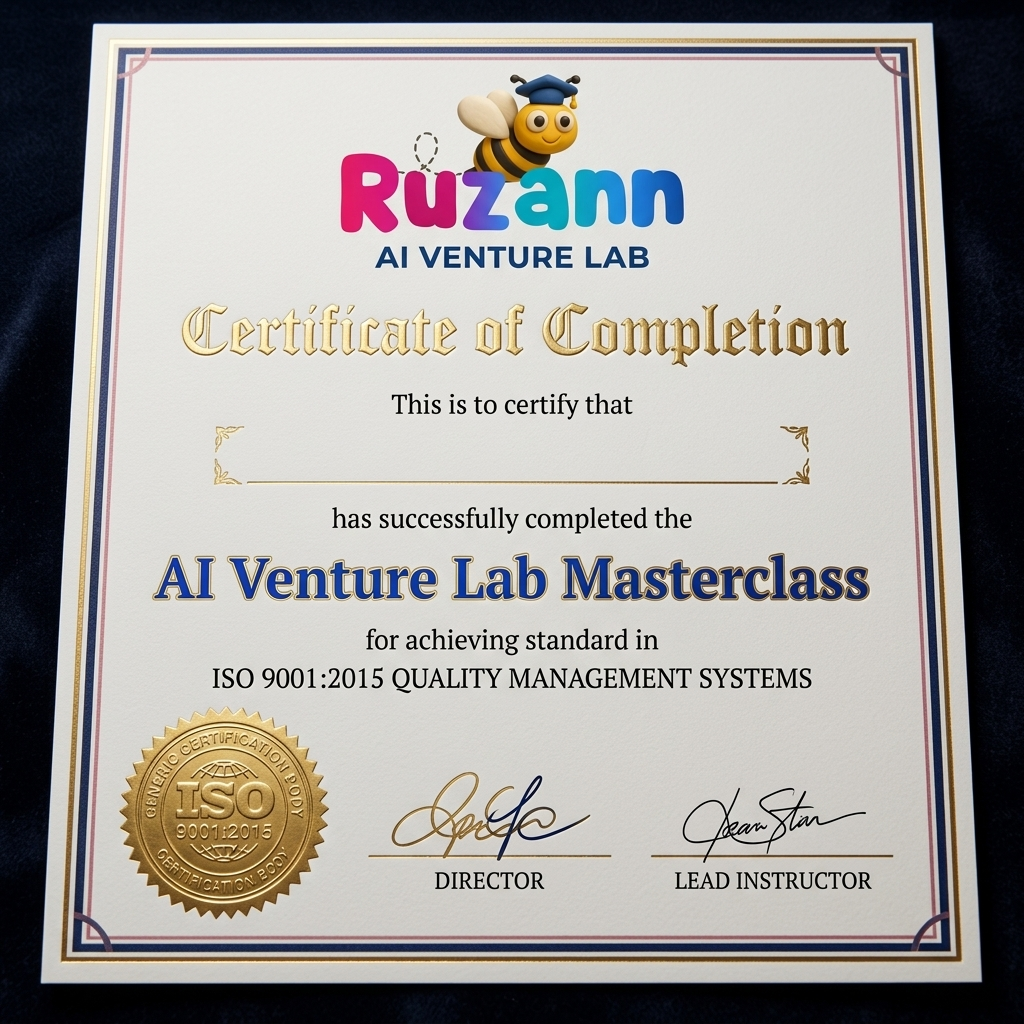
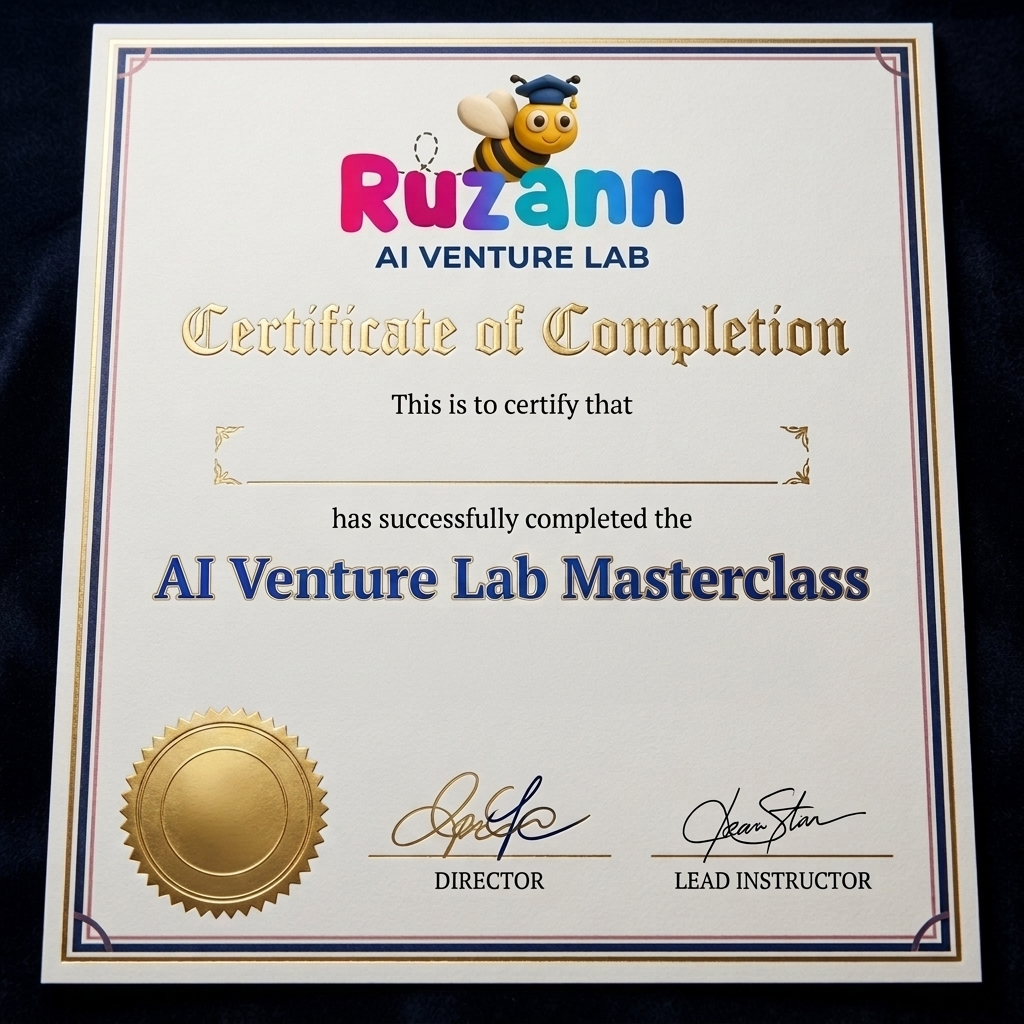
changes done

diff --git a/src/app/aiventurelab/page.tsx b/src/app/aiventurelab/page.tsx
@@ -257,7 +257,7 @@ export default function AIVentureLabPage() {
             <div className="lg:col-span-7 space-y-4 md:space-y-6">
               <div className="bg-slate-800/80 border border-slate-700/60 rounded-2xl md:rounded-3xl p-4 md:p-8 backdrop-blur-xl shadow-xl space-y-3 md:space-y-4">
                 <h3 className="text-sm md:text-lg font-black text-rose-400 flex items-center gap-2">
-                  <Zap size={18} className="text-amber-400" /> What You Will Achieve in 3 Hours:
+                  <Zap size={18} className="text-amber-400" /> What You Will Achieve:
                 </h3>
                 <ul className="space-y-2 md:space-y-3 text-xs md:text-base text-slate-200">
                   <li className="flex items-start gap-2 md:gap-3">
@@ -300,7 +300,7 @@ export default function AIVentureLabPage() {
               <div className="grid grid-cols-2 sm:grid-cols-4 gap-2 md:gap-3">
                 <div className="bg-slate-800/40 border border-slate-700/40 rounded-xl p-2.5 text-center">
                   <BadgeCheck size={18} className="text-rose-400 mx-auto mb-0.5" />
-                  <span className="text-[11px] md:text-xs font-bold text-slate-300 block">ISO Certified</span>
+                  <span className="text-[11px] md:text-xs font-bold text-slate-300 block">Official Certificate</span>
                   <span className="text-[9px] md:text-[10px] text-slate-400">Quality Training</span>
                 </div>
                 <div className="bg-slate-800/40 border border-slate-700/40 rounded-xl p-2.5 text-center">
@@ -310,8 +310,8 @@ export default function AIVentureLabPage() {
                 </div>
                 <div className="bg-slate-800/40 border border-slate-700/40 rounded-xl p-2.5 text-center">
                   <Lock size={18} className="text-emerald-400 mx-auto mb-0.5" />
-                  <span className="text-[11px] md:text-xs font-bold text-slate-300 block">100% Guaranteed</span>
-                  <span className="text-[9px] md:text-[10px] text-slate-400">Money Back Protection</span>
+                  <span className="text-[11px] md:text-xs font-bold text-slate-300 block">Instant Access</span>
+                  <span className="text-[9px] md:text-[10px] text-slate-400">Secure Enrollment</span>
                 </div>
                 <div className="bg-slate-800/40 border border-slate-700/40 rounded-xl p-2.5 text-center">
                   <Award size={18} className="text-amber-400 mx-auto mb-0.5" />
@@ -333,7 +333,7 @@ export default function AIVentureLabPage() {
                     <Video size={24} />
                   </div>
                   <h3 className="text-base md:text-xl font-black text-white">AI Venture Lab Masterclass</h3>
-                  <p className="text-[11px] md:text-xs text-rose-300 font-semibold mt-0.5">3-Hour Interactive Live Session</p>
+                  <p className="text-[11px] md:text-xs text-rose-300 font-semibold mt-0.5">Interactive Live Session</p>
                 </div>
 
                 {/* Event Key Info */}
@@ -343,16 +343,12 @@ export default function AIVentureLabPage() {
                     <span className="font-bold text-white">Upcoming Saturday</span>
                   </div>
                   <div className="flex items-center justify-between py-1 border-b border-slate-800/80">
-                    <span className="text-slate-400 flex items-center gap-1.5"><Clock size={14} className="text-rose-400" /> Time:</span>
-                    <span className="font-bold text-white">11:00 AM - 2:00 PM IST</span>
-                  </div>
-                  <div className="flex items-center justify-between py-1 border-b border-slate-800/80">
                     <span className="text-slate-400 flex items-center gap-1.5"><Globe size={14} className="text-rose-400" /> Mode:</span>
-                    <span className="font-bold text-emerald-400 flex items-center gap-1"><span className="w-1.5 h-1.5 rounded-full bg-emerald-400 animate-ping inline-block" /> Zoom Live</span>
+                    <span className="font-bold text-emerald-400 flex items-center gap-1"><span className="w-1.5 h-1.5 rounded-full bg-emerald-400 animate-ping inline-block" /> Google Meet Live</span>
                   </div>
                   <div className="flex items-center justify-between py-1">
-                    <span className="text-slate-400 flex items-center gap-1.5"><Gift size={14} className="text-rose-400" /> Bonuses:</span>
-                    <span className="font-bold text-amber-300">{formatPrice(25000)}+ Free</span>
+                    <span className="text-slate-400 flex items-center gap-1.5"><Gift size={14} className="text-rose-400" /> WhatsApp API:</span>
+                    <span className="font-bold text-amber-300">1 Year FREE ({formatPrice(25000)})</span>
                   </div>
                 </div>
 
@@ -408,11 +404,11 @@ export default function AIVentureLabPage() {
             </div>
 
             <h2 className="text-2xl md:text-4xl lg:text-5xl font-black text-white leading-tight mb-3">
-              Join Our Live Masterclass at Just <span className="bg-gradient-to-r from-amber-300 via-rose-300 to-pink-400 bg-clip-text text-transparent">{formatPrice(99)}</span>
+              Join Our Live Masterclass <span className="bg-gradient-to-r from-amber-300 via-rose-300 to-pink-400 bg-clip-text text-transparent">Today</span>
             </h2>
 
             <p className="text-slate-300 text-xs sm:text-base md:text-lg max-w-2xl mx-auto mb-6">
-              Get 3 hours of live interactive AI training, {formatPrice(25000)}+ free bonuses, ISO certificate & 100% money-back guarantee for less than a cup of coffee.
+              Get live interactive AI training, {formatPrice(25000)}+ free bonuses, Certificate of Completion & 1-year WhatsApp API access for less than a cup of coffee.
             </p>
 
             <div className="flex items-center justify-center gap-3 mb-6">
@@ -434,9 +430,9 @@ export default function AIVentureLabPage() {
               </button>
 
               <div className="flex items-center justify-center gap-4 text-[10px] md:text-xs text-slate-400 mt-3 font-medium">
-                <span className="flex items-center gap-1 text-amber-300"><Flame size={12} /> Only 7 seats remaining</span>
+                <span className="flex items-center gap-1 text-amber-300"><Flame size={12} /> Only 14 seats remaining</span>
                 <span>•</span>
-                <span className="flex items-center gap-1 text-emerald-400"><ShieldCheck size={12} /> 100% Refund Guarantee</span>
+                <span className="flex items-center gap-1 text-emerald-400"><ShieldCheck size={12} /> Instant Access & Bonus Included</span>
               </div>
             </div>
           </div>
@@ -598,17 +594,17 @@ export default function AIVentureLabPage() {
               SYLLABUS BREAKDOWN
             </span>
             <h2 className="text-xl md:text-4xl font-black text-white mb-2">
-              What You Will Learn In 3 Hours
+              What You Will Learn
             </h2>
           </div>
 
           <div className="space-y-3">
             {[
-              { num: '01', title: 'Foundational AI & Executive Prompting', desc: 'Master the 4-step framework for razor-sharp business outputs.', time: '35 Mins' },
-              { num: '02', title: 'AI Marketing & Content Factory', desc: 'Generate ad copy, Canva graphics & video scripts in seconds.', time: '40 Mins' },
-              { num: '03', title: 'Automated Sales & Lead Funnels', desc: 'Set up auto-responding lead magnets & WhatsApp capture.', time: '35 Mins' },
-              { num: '04', title: 'Finance & Admin Automation', desc: 'Automate invoice parsing, meeting notes & vendor emails.', time: '30 Mins' },
-              { num: '05', title: 'Custom AI Business Assistant', desc: 'Deploy a private AI trained on your business SOPs.', time: '40 Mins' },
+              { num: '01', title: 'Foundational AI & Executive Prompting', desc: 'Master the 4-step framework for razor-sharp business outputs.' },
+              { num: '02', title: 'AI Marketing & Content Factory', desc: 'Generate ad copy, Canva graphics & video scripts in seconds.' },
+              { num: '03', title: 'Automated Sales & Lead Funnels', desc: 'Set up auto-responding lead magnets & WhatsApp capture.' },
+              { num: '04', title: 'Finance & Admin Automation', desc: 'Automate invoice parsing, meeting notes & vendor emails.' },
+              { num: '05', title: 'Custom AI Business Assistant', desc: 'Deploy a private AI trained on your business SOPs.' },
             ].map((m, idx) => (
               <div key={idx} className="bg-slate-950 border border-slate-800 rounded-xl md:rounded-2xl p-3.5 md:p-6 flex items-center justify-between gap-3">
                 <div className="flex items-center gap-3">
@@ -620,54 +616,80 @@ export default function AIVentureLabPage() {
                     <p className="text-slate-400 text-[11px] md:text-sm line-clamp-1">{m.desc}</p>
                   </div>
                 </div>
-                <span className="text-[10px] md:text-xs font-bold bg-slate-800 text-slate-300 px-2 py-1 md:px-3 md:py-1.5 rounded-full shrink-0">
-                  {m.time}
-                </span>
               </div>
             ))}
           </div>
         </div>
       </section>
 
-      {/* 8. EXCLUSIVE BONUSES */}
+      {/* 8. MAJOR INCLUSION: FREE WHATSAPP API */}
       <section className="py-8 md:py-20 px-3 md:px-8 bg-slate-950">
         <div className="container mx-auto max-w-6xl">
-          <div className="bg-gradient-to-br from-rose-950/40 via-slate-900 to-slate-950 border-2 border-rose-500/30 rounded-2xl md:rounded-3xl p-5 md:p-12 shadow-xl">
-            <div className="text-center max-w-3xl mx-auto mb-6 md:mb-12">
-              <span className="bg-amber-400 text-slate-950 text-[10px] md:text-xs font-black px-3 py-1 rounded-full uppercase tracking-wider inline-block mb-2">
-                FREE INCLUSIONS
+          <div className="bg-gradient-to-br from-rose-950/60 via-slate-900 to-rose-950 border-2 border-rose-500/40 rounded-2xl md:rounded-3xl p-6 md:p-12 shadow-2xl relative overflow-hidden">
+            {/* Background Glow */}
+            <div className="absolute -top-24 -right-24 w-96 h-96 bg-rose-500/20 rounded-full blur-[100px] pointer-events-none" />
+
+            <div className="text-center max-w-3xl mx-auto mb-6 md:mb-10 relative z-10">
+              <span className="bg-gradient-to-r from-amber-400 to-amber-300 text-slate-950 text-[10px] md:text-xs font-black px-3.5 py-1 rounded-full uppercase tracking-wider inline-flex items-center gap-1.5 mb-3 shadow-md">
+                <Sparkles size={14} className="fill-slate-950" />
+                MAJOR INCLUSION - WORTH {formatPrice(25000)}
               </span>
-              <h2 className="text-xl md:text-4xl font-black text-white mb-2">
-                Bonus Suite Worth {formatPrice(25000)} FREE!
+              <h2 className="text-2xl md:text-5xl font-black text-white mb-3 leading-tight">
+                1-Year Free <span className="bg-gradient-to-r from-amber-300 via-rose-300 to-pink-400 bg-clip-text text-transparent">WhatsApp API Access</span>
               </h2>
+              <p className="text-slate-300 text-xs md:text-base leading-relaxed max-w-2xl mx-auto">
+                Get full 1-year complimentary access to the WhatsApp Business API (Worth {formatPrice(25000)}/year) absolutely FREE with your enrollment.
+              </p>
             </div>
 
-            <div className="grid grid-cols-1 md:grid-cols-3 gap-3 md:gap-6">
-              <div className="bg-slate-900/90 border border-slate-800 rounded-xl p-4">
-                <div className="text-[10px] font-black text-rose-400 uppercase mb-1">BONUS #1 ({formatPrice(7999)})</div>
-                <h4 className="text-sm md:text-lg font-bold text-white mb-1">500+ Business Prompts</h4>
-                <p className="text-xs text-slate-400">Ready-to-use prompts for sales, email funnels & social posts.</p>
+            <div className="grid grid-cols-1 sm:grid-cols-2 lg:grid-cols-4 gap-3 md:gap-6 relative z-10 mb-8">
+              <div className="bg-slate-900/90 border border-slate-800 rounded-2xl p-4 md:p-5 hover:border-rose-500/40 transition-all shadow-lg">
+                <div className="w-10 h-10 rounded-xl bg-emerald-500/10 text-emerald-400 flex items-center justify-center font-bold mb-3">
+                  <Zap size={20} />
+                </div>
+                <h4 className="text-sm md:text-base font-bold text-white mb-1.5">24/7 Auto Responses</h4>
+                <p className="text-xs text-slate-400 leading-relaxed">
+                  Auto-respond to client questions, send instant product catalogs, and handle inquiries around the clock.
+                </p>
               </div>
 
-              <div className="bg-slate-900/90 border border-slate-800 rounded-xl p-4">
-                <div className="text-[10px] font-black text-rose-400 uppercase mb-1">BONUS #2 ({formatPrice(9999)})</div>
-                <h4 className="text-sm md:text-lg font-bold text-white mb-1">AI Automation Blueprint</h4>
-                <p className="text-xs text-slate-400">Step-by-step Zapier & Make automation templates.</p>
+              <div className="bg-slate-900/90 border border-slate-800 rounded-2xl p-4 md:p-5 hover:border-rose-500/40 transition-all shadow-lg">
+                <div className="w-10 h-10 rounded-xl bg-rose-500/10 text-rose-400 flex items-center justify-center font-bold mb-3">
+                  <Users size={20} />
+                </div>
+                <h4 className="text-sm md:text-base font-bold text-white mb-1.5">Lead Capture & Funnels</h4>
+                <p className="text-xs text-slate-400 leading-relaxed">
+                  Capture hot incoming leads from ads & social media directly into WhatsApp with automatic follow-up sequences.
+                </p>
               </div>
 
-              <div className="bg-slate-900/90 border border-slate-800 rounded-xl p-4">
-                <div className="text-[10px] font-black text-rose-400 uppercase mb-1">BONUS #3 ({formatPrice(7000)})</div>
-                <h4 className="text-sm md:text-lg font-bold text-white mb-1">VIP Founders Network</h4>
-                <p className="text-xs text-slate-400">Lifelong access to our private community of entrepreneurs.</p>
+              <div className="bg-slate-900/90 border border-slate-800 rounded-2xl p-4 md:p-5 hover:border-rose-500/40 transition-all shadow-lg">
+                <div className="w-10 h-10 rounded-xl bg-amber-400/10 text-amber-400 flex items-center justify-center font-bold mb-3">
+                  <Gift size={20} />
+                </div>
+                <h4 className="text-sm md:text-base font-bold text-white mb-1.5">Zero Subscription Fee</h4>
+                <p className="text-xs text-slate-400 leading-relaxed">
+                  Save {formatPrice(25000)} per year. You pay ₹0 subscription for the entire first year as an eligible student.
+                </p>
+              </div>
+
+              <div className="bg-slate-900/90 border border-slate-800 rounded-2xl p-4 md:p-5 hover:border-rose-500/40 transition-all shadow-lg">
+                <div className="w-10 h-10 rounded-xl bg-sky-500/10 text-sky-400 flex items-center justify-center font-bold mb-3">
+                  <CheckCircle2 size={20} />
+                </div>
+                <h4 className="text-sm md:text-base font-bold text-white mb-1.5">Plug & Play Integration</h4>
+                <p className="text-xs text-slate-400 leading-relaxed">
+                  Easily integrate with your CRM, website, or marketing campaigns without any complex coding required.
+                </p>
               </div>
             </div>
 
-            <div className="mt-6 text-center">
+            <div className="text-center relative z-10">
               <button
                 onClick={openBookingModal}
-                className="bg-gradient-to-r from-rose-500 to-pink-600 hover:from-rose-600 hover:to-pink-700 text-white font-black text-sm md:text-lg px-8 py-3.5 rounded-xl shadow-lg"
+                className="bg-gradient-to-r from-rose-500 via-pink-500 to-rose-600 hover:from-rose-600 hover:to-pink-600 text-white font-black text-sm md:text-lg px-8 py-4 rounded-xl shadow-xl shadow-rose-500/30 transition-all transform hover:-translate-y-0.5"
               >
-                PAY {formatPrice(99)} & UNLOCK BONUSES
+                PAY {formatPrice(99)} & CLAIM FREE WHATSAPP API
               </button>
             </div>
           </div>
@@ -747,10 +769,10 @@ export default function AIVentureLabPage() {
           <div className="text-center max-w-3xl mx-auto mb-8 md:mb-14">
             <div className="inline-flex items-center gap-1.5 bg-amber-400/10 border border-amber-400/30 px-3 py-1 rounded-full text-amber-300 font-bold text-[10px] md:text-xs mb-3">
               <Award size={14} className="text-amber-400 shrink-0" />
-              <span>OFFICIAL ACCREDITATION</span>
+              <span>OFFICIAL CERTIFICATION</span>
             </div>
             <h2 className="text-xl sm:text-3xl md:text-4xl font-black text-white mb-2 md:mb-4">
-              Get ISO-Certified Credentials Upon Completion
+              Get Your Official Certificate of Completion
             </h2>
             <p className="text-slate-400 text-xs md:text-base max-w-2xl mx-auto">
               Showcase your expertise to clients, investors, and peers with your verified digital Certificate of Completion.
@@ -766,9 +788,9 @@ export default function AIVentureLabPage() {
                     <BadgeCheck size={20} />
                   </div>
                   <div>
-                    <h4 className="text-sm md:text-base font-bold text-white mb-1">ISO 9001:2015 Accredited</h4>
+                    <h4 className="text-sm md:text-base font-bold text-white mb-1">Official Completion Certificate</h4>
                     <p className="text-xs text-slate-400 leading-relaxed">
-                      Internationally recognized certification validating your hands-on mastery of business AI automation.
+                      Verified digital credential validating your hands-on mastery of business AI automation.
                     </p>
                   </div>
                 </div>
@@ -825,12 +847,28 @@ export default function AIVentureLabPage() {
           </div>
 
           <div className="space-y-3">
-            {[
-              { q: "Do I need coding knowledge to attend?", a: "No! Built specifically for non-technical women entrepreneurs & business owners. All tools are no-code." },
-              { q: "Will I get a recording of the masterclass?", a: "Yes! 1-year recording access + all prompt kits are included." },
-              { q: "Will I receive a certificate?", a: "Yes, an ISO-certified digital Certificate of Completion from Ruzann AI Venture Lab." },
-              { q: "What if I am unhappy with the session?", a: "We offer a 100% money-back satisfaction guarantee." }
-            ].map((item, idx) => (
+              {[
+                {
+                  q: "1. Is the WhatsApp API included with the course?",
+                  a: "Yes! Every eligible learner receives 1 year of WhatsApp API access worth ₹25,000 absolutely FREE. This allows you to automate customer communication, send notifications, manage leads, and engage with clients using WhatsApp Business as part of your learning experience."
+                },
+                {
+                  q: "2. Why is the WhatsApp API valuable?",
+                  a: "The WhatsApp API is widely used by businesses to automate customer support, lead follow-ups, appointment reminders, order updates, and marketing campaigns. Purchasing it separately can cost around ₹25,000 per year, but it's included at no additional cost with this course for eligible students."
+                },
+                {
+                  q: "3. Who is eligible for the free WhatsApp API offer?",
+                  a: "The complimentary 1-year WhatsApp API subscription is available to eligible students enrolled in this course. Please review the course details or contact our support team for any activation requirements or applicable terms."
+                },
+                {
+                  q: "4. Can I use the WhatsApp API for my own business?",
+                  a: "Absolutely! Once activated, you can integrate the WhatsApp API into your own business to communicate professionally with customers, automate workflows, and improve customer engagement while applying what you learn throughout the course."
+                },
+                {
+                  q: "5. Are there any hidden charges for the WhatsApp API?",
+                  a: "No hidden subscription fee for the API itself during the first year. Your ₹25,000 annual WhatsApp API access is included FREE with the course for eligible learners. Standard WhatsApp conversation charges or third-party platform fees (if applicable under Meta's pricing policy) are separate and are not included."
+                }
+              ].map((item, idx) => (
               <div key={idx} className="bg-slate-900 border border-slate-800 rounded-xl overflow-hidden">
                 <button
                   onClick={() => setOpenFaq(openFaq === idx ? null : idx)}
